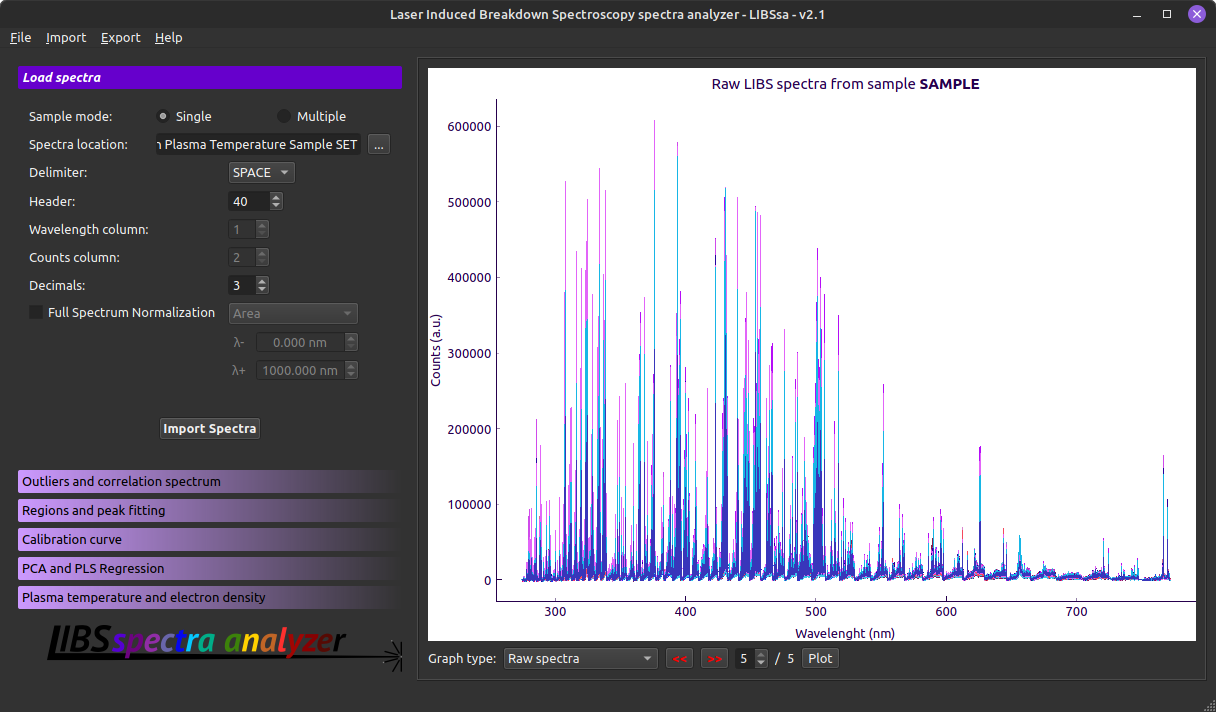
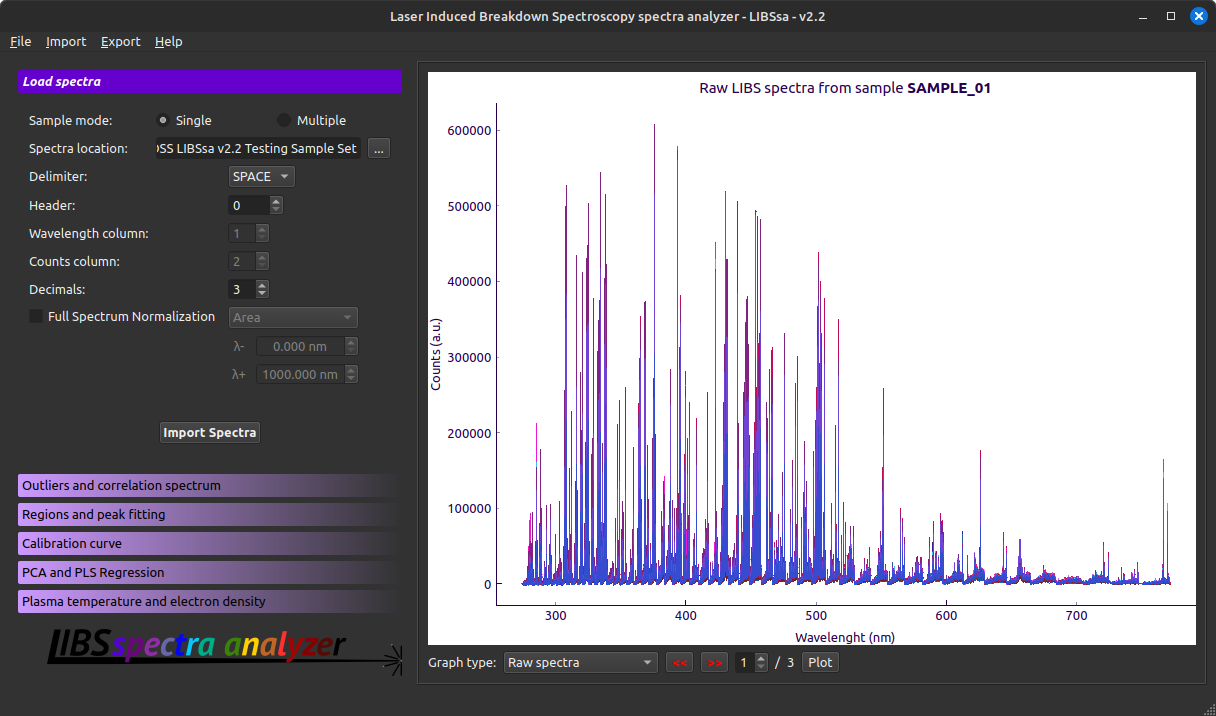
LIBSsa version: 2.2 [JOSS paper final #1]
libssa.png
* Replaced main app picture

README.md
* Updated version to 2.2

diff --git a/README.md b/README.md
@@ -4,7 +4,7 @@
 
 # LIBSsa2 - Laser Induced Breakdown Spectroscopy spectra analyzer
 
-### Current stable version: _2.1_
+### Current stable version: _2.2_
 
 **LIBSsa 2** is free software, licensed under the **GNU Affero General Public License version 3**, 
 and written in **Python 3.x** for analyzing **LIBS spectra**. It can read several formats of data inside raw/text files,
